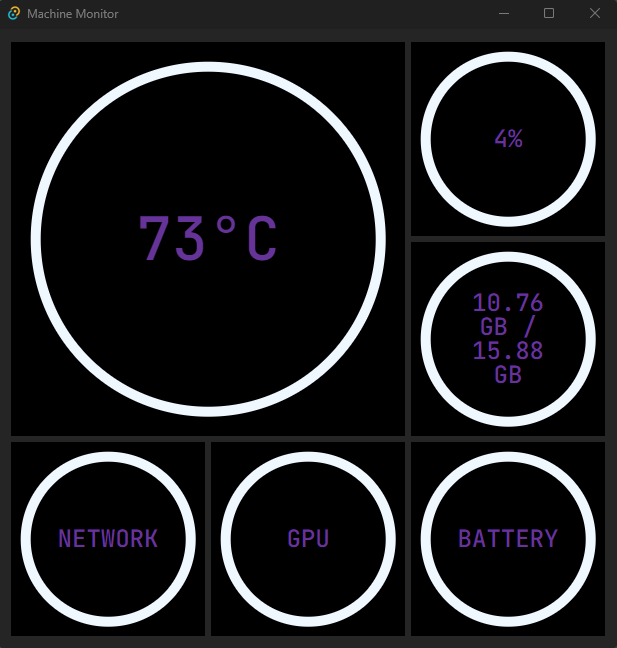
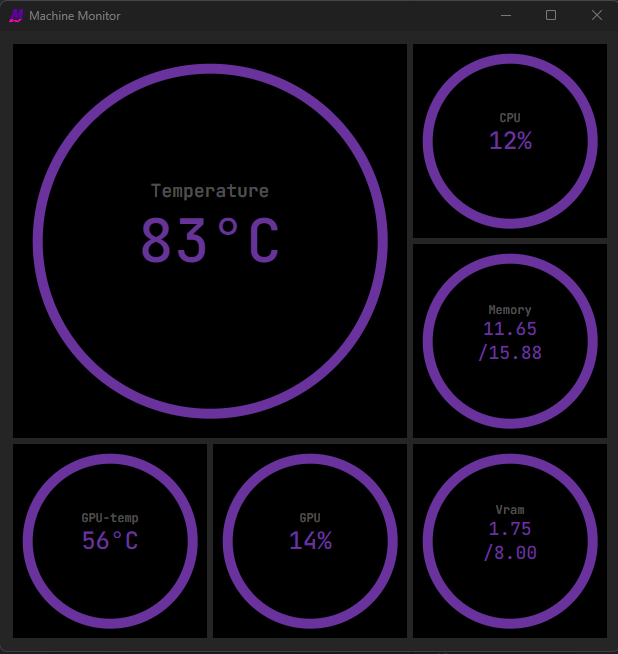
updated doc

diff --git a/README.md b/README.md
@@ -1,14 +1,13 @@
 # Machine Monitor
 
-Executable binary exist in releases --->
+Executable binary and installation (.msi) exist in releases --->
 
 View temperature and other information about the current machine.
 
-Only Windows is supported
+Only Windows is supported and NVidia card for graphics information
 
 ![image](app.png)
 
-(Network, GPU and Battery are just placeholders atm)
 
 ## Back-end
 Much of the back-end is handled by my qmstats crate which can be found at: https://github.com/AlbinDalbert/qmstats
